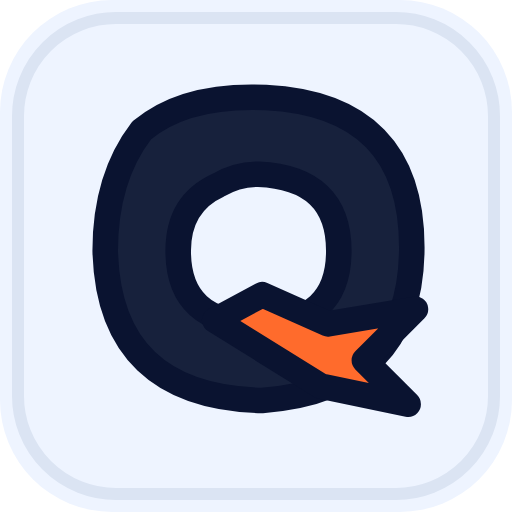
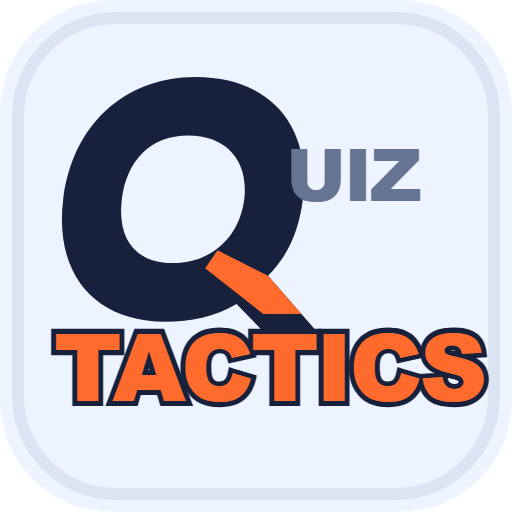
feat: Forward Pulse Q logosunu canlı markaya uygula

diff --git a/oyun/components/Logo.jsx b/oyun/components/Logo.jsx
@@ -1,5 +1,5 @@
 /**
- * Quiz Tactics resmi logosu — vNext 08 Master Balance.
+ * Quiz Tactics resmi logosu — Q Logo Lab 03 Forward Pulse.
  * Q ve TACTICS ana ağırlığı taşır; UIZ küçük ama okunur kalır.
  */
 export default function Logo({ boyut = 38, className = "", koyu = false, sadeceIkon = false }) {
@@ -8,11 +8,10 @@ export default function Logo({ boyut = 38, className = "", koyu = false, sadeceI
   const ikincil = koyu ? "#c8d2e7" : "#657493";
   const kontur = koyu ? "#0a1330" : "#17213c";
   const filtre = sadeceIkon ? "bd-logo-golge-ikon" : "bd-logo-golge";
-  const q = <g transform={sadeceIkon ? "translate(10 10)" : "translate(18 22) scale(1.4)"}>
-    <path d="M18 16Q30 6 52 7q40 2 40 41T51 90Q9 89 8 49 8 29 18 16Zm21 15q-11 5-11 18 0 20 22 20t22-20q0-20-22-21-6 0-11 3Z"
-      fill={ana} stroke={kontur} strokeWidth="7" strokeLinejoin="round" fillRule="evenodd" />
-    <path d="m51 61 18 8 24-4-14 14 12 12-24-5-29-18Z"
-      fill="#ff6b2c" stroke={kontur} strokeWidth="7" strokeLinejoin="round" />
+  const q = <g transform={sadeceIkon ? "translate(7 -1) skewX(-7)" : "translate(28 22) scale(1.4) translate(7 -1) skewX(-7)"}>
+    <path d="M56 10C28 10 10 29 10 58s18 48 46 48c10 0 19-2 27-7l12 11h21L94 88c7-8 10-18 10-30 0-29-19-48-48-48Zm0 23c15 0 25 10 25 25S71 83 56 83 33 73 33 58s8-25 23-25Z"
+      fill={ana} fillRule="evenodd" />
+    <path d="m73 78 21 10 15 15H94L69 85Z" fill="#ff6b2c" />
   </g>;
 
   return <svg className={`bd-logo ${className}`} width={genislik} height={boyut}

diff --git a/PROGRESS.md b/PROGRESS.md
@@ -7432,3 +7432,14 @@ sonraki pakette.
   zemin, uygulama ikonu ve mevcut `UIZ + TACTICS` tipografisi içinde gösterilir.
 - Mevcut `Logo.jsx`, header ve PWA ikonları değiştirilmedi. Çalışma seçim
   laboratuvarıdır; üretim markasına ancak sahibinin seçimi sonrası bağlanacaktır.
+
+## 22 Eylül 2026 — Forward Pulse Q resmi markaya alındı
+**Araç:** Codex
+
+- Sahibinin seçtiği Q Logo Lab 03 **Forward Pulse**, resmi `Logo.jsx`
+  işaretine uygulandı. Logoyu kullanan üst menü, mobil başlık, giriş,
+  yapılandırma ekranı ve ana ekrana ekleme penceresi tek kaynaktan güncellenir.
+- PWA/app simgesinde sahibinin isteğiyle yalnız Q değil tam `QUIZ TACTICS`
+  adı yer alır. Geriye uyumlu `bildim-icon-*` dosya yolları korunmuştur.
+- Q laboratuvarı seçim geçmişi olarak ayrı rotada kalır; production akışına
+  menü bağlantısı eklenmemiştir.

diff --git a/PROJECT_CONTEXT.md b/PROJECT_CONTEXT.md
@@ -188,6 +188,10 @@ Palet (değiştirme):
 ```
 
 - Kabuk 1180 px (`.shell`); üstte yatay menü, 850 px altında alt menü.
+- Resmi marka işareti Q Logo Lab **03 Forward Pulse** Q'sudur: hafif öne
+  eğimli, kısa ve gövdeyle bütünleşik turuncu kuyruklu vektör form. Header,
+  giriş ve splash aynı `Logo.jsx` kaynağını kullanır; PWA/app ikonunda yalnız
+  Q değil tam `QUIZ TACTICS` wordmarkı bulunur.
 - Baloo 2 başlık / Nunito gövde — **yerel paketli** (`public/fonts/`,
   `@font-face`). Google Fonts bağlantısı YOK, geri de eklenmez.
 - Kabartmalı buton dili korundu (`0 4px 0` + basınca `translateY(4px)`).
